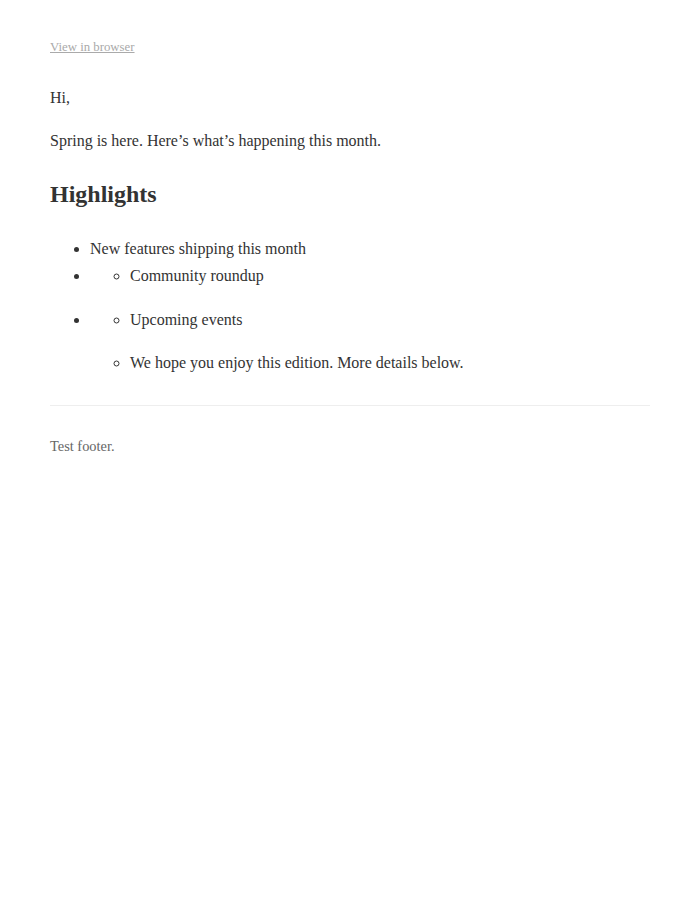
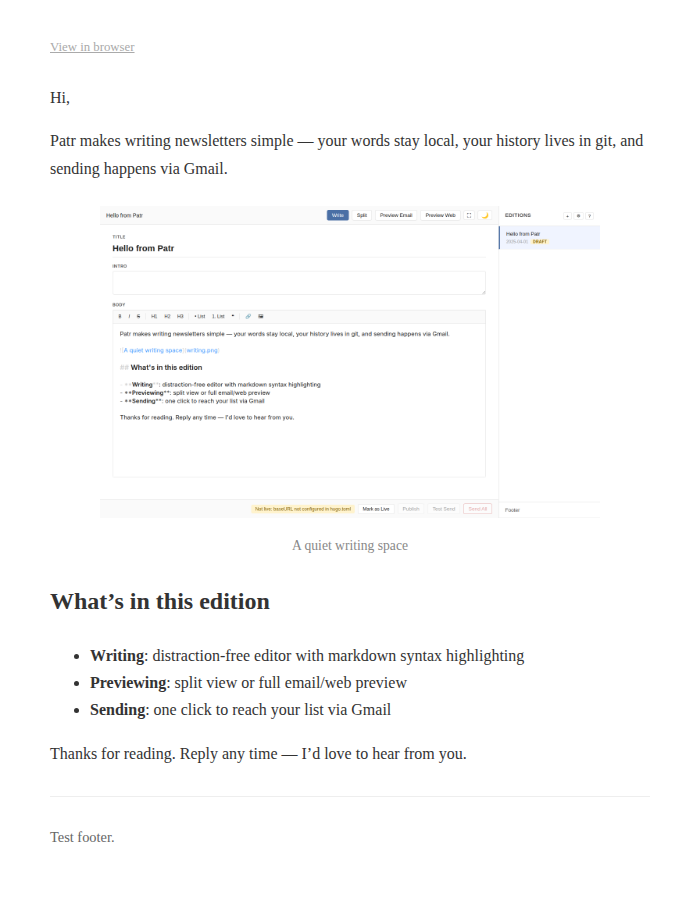
Use editor screenshot as the newsletter image
Drops the synthetic gradient. test_screenshot copies editor.png into
the edition dir as writing.png after saving it; test_screenshot_email_preview
then renders the email preview with the real editor screenshot embedded.

diff --git a/tests/test_e2e.py b/tests/test_e2e.py
@@ -102,66 +102,71 @@ def edition(page, request):
 REPO_ROOT = Path(__file__).parent.parent
 
 
+_SCREENSHOT_BODY = """\
+Patr makes writing newsletters simple — your words stay local, \
+your history lives in git, and sending happens via Gmail.
+
+![A quiet writing space](writing.png)
+
+## What's in this edition
+
+- **Writing**: distraction-free editor with markdown syntax highlighting
+- **Previewing**: split view or full email/web preview
+- **Sending**: one click to reach your list via Gmail
+
+Thanks for reading. Reply any time — I'd love to hear from you.
+"""
+
+
+@pytest.fixture(scope="session")
+def screenshot_edition(repo, context, base_url):
+    """Set up the 'April 2025' edition with rich content for README screenshots."""
+    p = context.new_page()
+    try:
+        p.goto(base_url)
+        p.wait_for_selector(".sidebar")
+        p.locator(".sidebar-header button", has_text="+").click()
+        p.locator("input[placeholder='e.g. Spring Edition']").fill("April 2025")
+        p.locator("button.btn-primary", has_text="Create").click()
+        p.wait_for_selector(".edition-item:has-text('April 2025')")
+    finally:
+        p.close()
+    slug = "april-2025"
+    edition_dir = state.CONTENT_DIR / slug
+    (edition_dir / "index.md").write_text(
+        "---\ntitle: Hello from Patr\ndate: 2025-04-01\ndraft: true\n---\n\n"
+        + _SCREENSHOT_BODY
+    )
+    yield slug
+
+
 # ── Tests ─────────────────────────────────────────────────────────────────────
 
-def test_screenshot(context, base_url):
-    """Capture a screenshot of the app in a realistic state for the README."""
+def test_screenshot(screenshot_edition, context, base_url):
+    """Capture a screenshot of the editor for the README."""
     p = context.new_page()
     p.set_viewport_size({"width": 1280, "height": 800})
     try:
         p.goto(base_url)
         p.wait_for_selector(".sidebar")
-        # Create an edition
-        p.locator(".sidebar-header button", has_text="+").click()
-        p.locator("input[placeholder='e.g. Spring Edition']").fill("April 2025")
-        p.locator("button.btn-primary", has_text="Create").click()
-        p.locator(".edition-item:has-text('April 2025')").click()
+        p.locator(".edition-item:has-text('Hello from Patr')").click()
         p.wait_for_selector(".cm-content")
-        # Fill in title and body
-        p.locator(".editor-title-input").fill("Hello from Patr")
-        p.locator(".cm-content").click()
-        p.locator(".cm-content").press_sequentially(
-            "Writing newsletters should be simple. Patr keeps everything local — "
-            "your words, your git history, your Gmail."
-        )
-        p.wait_for_function("document.querySelector('.cm-content').textContent.length > 10")
         out = REPO_ROOT / "screenshots" / "editor.png"
         out.parent.mkdir(exist_ok=True)
         p.screenshot(path=str(out))
     finally:
         p.close()
-    assert (REPO_ROOT / "screenshots" / "editor.png").exists()
+    assert out.exists()
+    import shutil
+    shutil.copy(out, state.CONTENT_DIR / screenshot_edition / "writing.png")
 
 
-def test_screenshot_email_preview(context, base_url):
+def test_screenshot_email_preview(screenshot_edition, context, base_url):
     """Capture a screenshot of the email preview for the README."""
-    import re
     p = context.new_page()
     p.set_viewport_size({"width": 700, "height": 900})
     try:
-        p.goto(base_url)
-        p.wait_for_selector(".sidebar")
-        p.locator(".sidebar-header button", has_text="+").click()
-        p.locator("input[placeholder='e.g. Spring Edition']").fill("Spring 2025")
-        p.locator("button.btn-primary", has_text="Create").click()
-        p.locator(".edition-item:has-text('Spring 2025')").click()
-        p.wait_for_selector(".cm-content")
-        p.locator(".editor-title-input").fill("Welcome to Spring")
-        p.locator(".cm-content").click()
-        p.locator(".cm-content").press_sequentially(
-            "Spring is here. Here's what's happening this month.\n\n"
-            "## Highlights\n\n"
-            "- New features shipping this month\n"
-            "- Community roundup\n"
-            "- Upcoming events\n\n"
-            "We hope you enjoy this edition. More details below."
-        )
-        p.wait_for_function(
-            "document.querySelector('.editor-save-status')?.textContent === 'Saved'",
-            timeout=5000,
-        )
-        slug = re.sub(r"[^a-z0-9]+", "-", "spring 2025")
-        p.goto(f"{base_url}/preview/{slug}/email")
+        p.goto(f"{base_url}/preview/{screenshot_edition}/email")
         p.wait_for_load_state("networkidle")
         out = REPO_ROOT / "screenshots" / "email-preview.png"
         p.screenshot(path=str(out), full_page=True)
